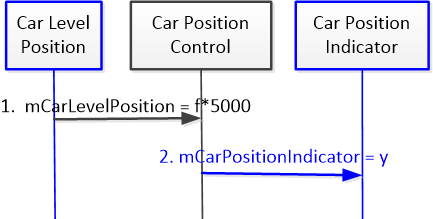
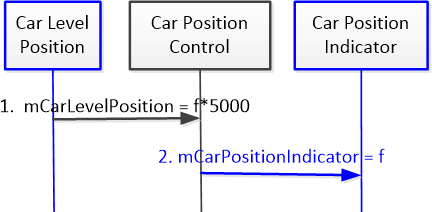
updated some stuff

diff --git a/portfolio/logs/peerreviewlog.html b/portfolio/logs/peerreviewlog.html
@@ -871,6 +871,40 @@ href="project%206%20peer%20review/CarPositionControllerImplementation.xls">Check
           <td valign="top"><br>
           </td>
         </tr>
+		<tr>
+          <td valign="top">53<br>
+          </td>
+          <td valign="top">10/22/2013<br>
+          </td>
+          <td valign="top">Sequence Diagram 8a Revised<br>
+          </td>
+          <td valign="top">David Chow<br>
+          </td>
+          <td valign="top">1<br>
+          </td>
+          <td valign="top"><a
+              href="project%208%20peer%20reviews/SC8A_peer_review.xls">Checklist</a><br>
+          </td>
+          <td valign="top"><br>
+          </td>
+        </tr>
+		<tr>
+          <td valign="top">54<br>
+          </td>
+          <td valign="top">10/22/2013<br>
+          </td>
+          <td valign="top">Sequence Diagram 8b Revised<br>
+          </td>
+          <td valign="top">David Chow<br>
+          </td>
+          <td valign="top">2<br>
+          </td>
+          <td valign="top"><a
+              href="project%208%20peer%20reviews/SC8B_peer_review.xls">Checklist</a><br>
+          </td>
+          <td valign="top"><br>
+          </td>
+        </tr>
       </tbody>
     </table>
     <br>
